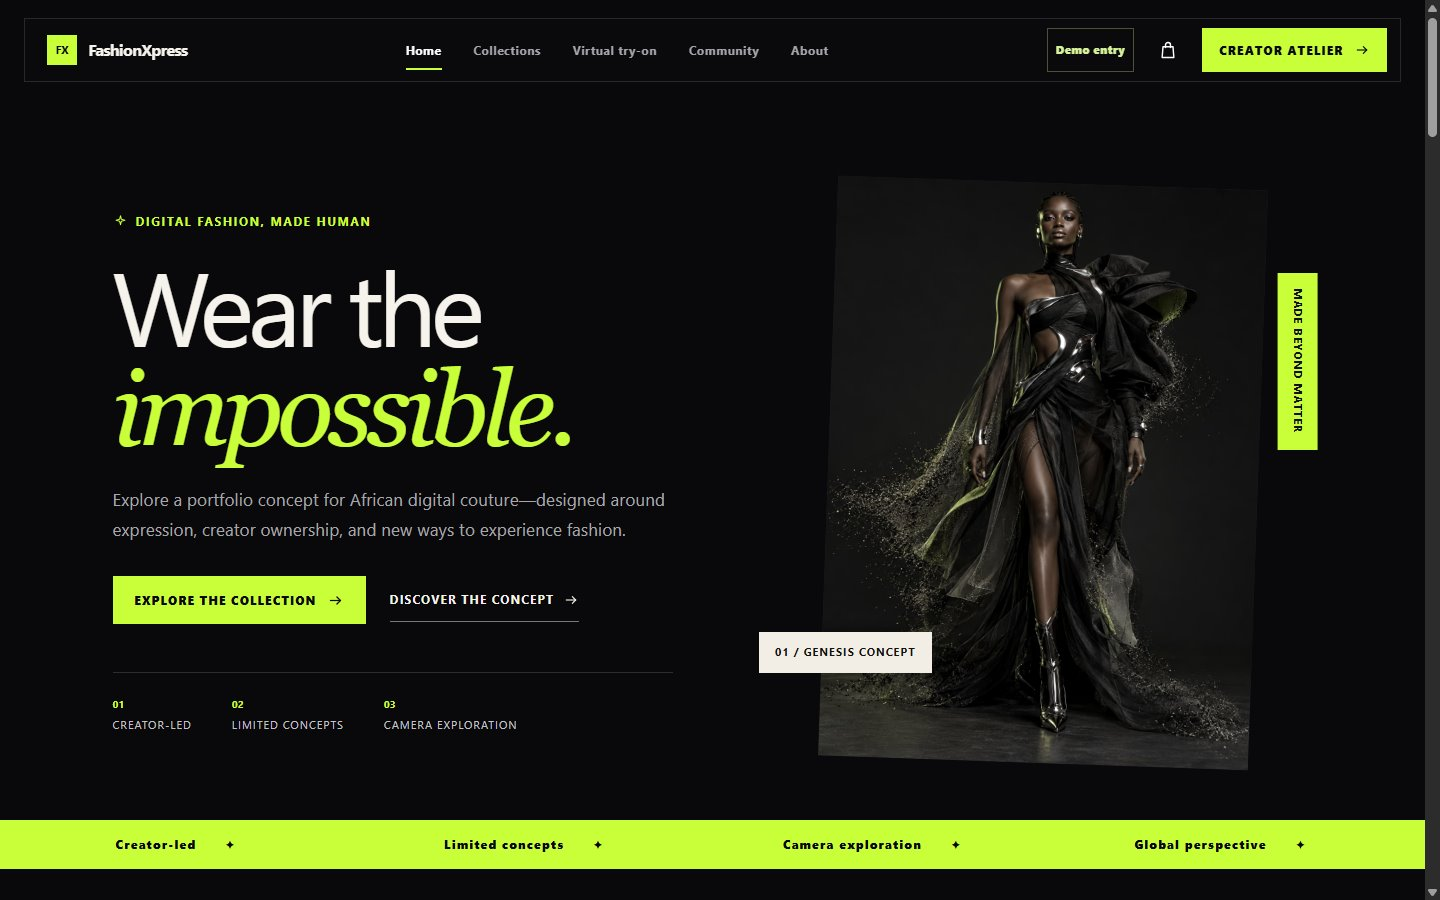
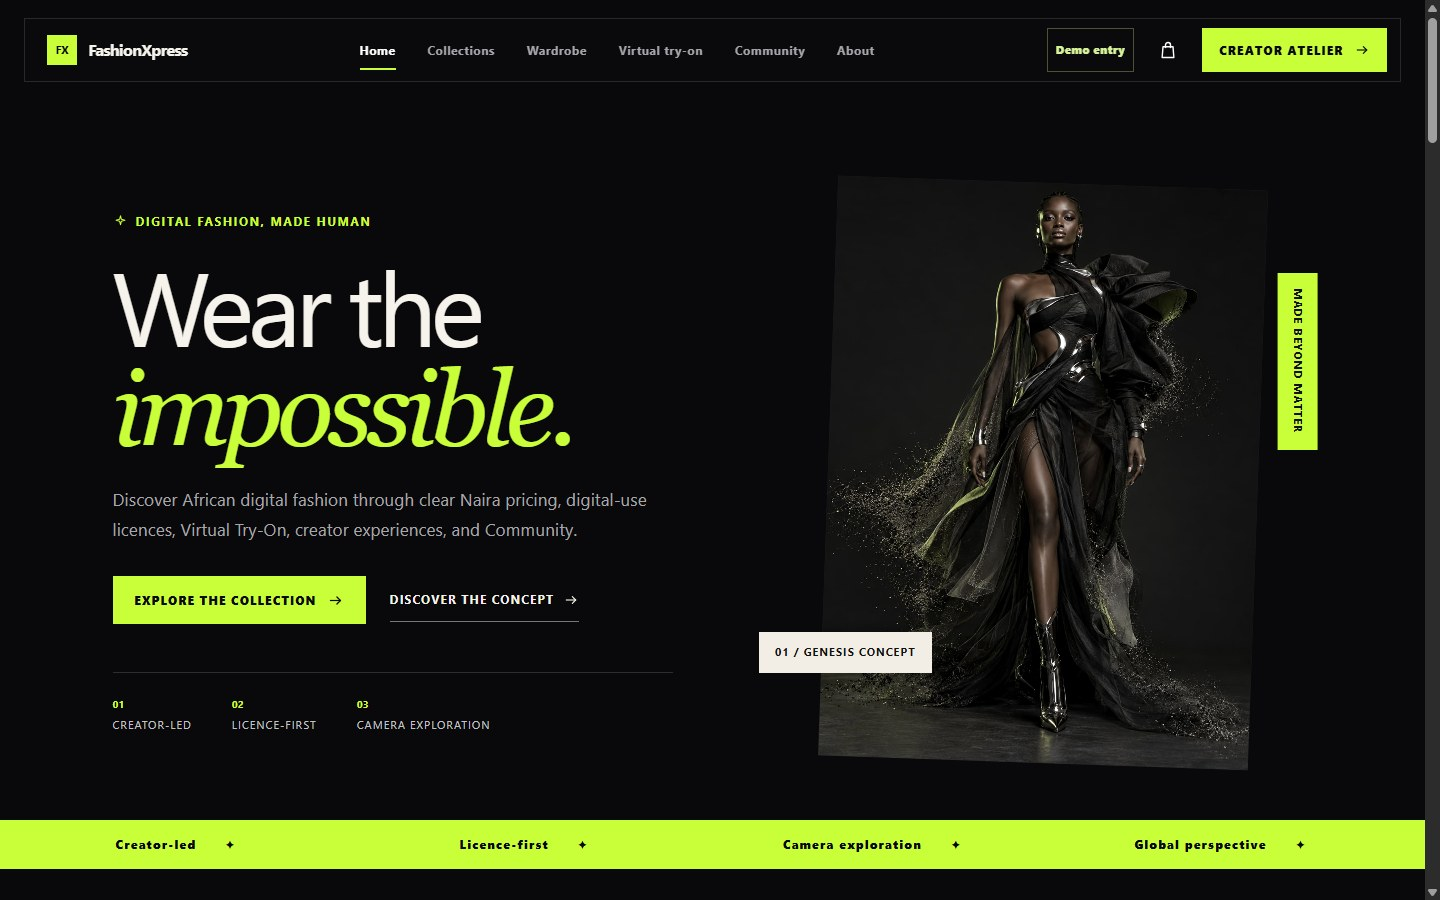
feat: transform FashionXpress into licence-first digital commerce

diff --git a/index.html b/index.html
@@ -6,21 +6,21 @@
     <meta name="theme-color" content="#08080d" />
     <link rel="icon" href="/favicon.svg" type="image/svg+xml" />
     <link rel="canonical" href="https://fashion-xpress.vercel.app/" />
-    <meta name="description" content="Explore African digital fashion through accessible local checkout, minting, Community and Virtual Try-On prototypes." />
+    <meta name="description" content="Explore an African digital-fashion commerce portfolio with Naira pricing, digital-use licences, Virtual Try-On, Community and a local Digital Wardrobe." />
     <meta property="og:type" content="website" />
     <meta property="og:site_name" content="FashionXpress" />
     <meta property="og:title" content="FashionXpress — Digital Fashion, Made Tangible" />
-    <meta property="og:description" content="An editorial React portfolio experience for African digital fashion, presented honestly in Demo Mode." />
+    <meta property="og:description" content="An African digital-fashion commerce portfolio with Naira pricing, digital-use licences, Virtual Try-On, Community and an optional Collectibles Lab." />
     <meta property="og:url" content="https://fashion-xpress.vercel.app/" />
     <meta property="og:image" content="https://fashion-xpress.vercel.app/images/social-preview.jpg" />
     <meta property="og:image:width" content="1600" />
     <meta property="og:image:height" content="900" />
-    <meta property="og:image:alt" content="FashionXpress interface shown across desktop and mobile screens on a charcoal portfolio cover." />
+    <meta property="og:image:alt" content="FashionXpress African digital-fashion commerce interface with Naira pricing, licences and Digital Wardrobe screens." />
     <meta name="twitter:card" content="summary_large_image" />
     <meta name="twitter:title" content="FashionXpress — Digital Fashion, Made Tangible" />
-    <meta name="twitter:description" content="An editorial React portfolio experience for African digital fashion, presented honestly in Demo Mode." />
+    <meta name="twitter:description" content="An African digital-fashion commerce portfolio with Naira pricing, digital-use licences, Virtual Try-On and Community." />
     <meta name="twitter:image" content="https://fashion-xpress.vercel.app/images/social-preview.jpg" />
-    <meta name="twitter:image:alt" content="FashionXpress interface shown across desktop and mobile screens on a charcoal portfolio cover." />
+    <meta name="twitter:image:alt" content="FashionXpress African digital-fashion commerce interface with Naira pricing, licences and Digital Wardrobe screens." />
     <title>FashionXpress — Digital Fashion, Made Tangible</title>
   </head>
   <body>

diff --git a/src/data/routeMeta.js b/src/data/routeMeta.js
@@ -21,7 +21,7 @@ const ROUTE_META = {
   '/profile/edit': { title: 'Edit Profile | FashionXpress', description: 'Edit your public FashionXpress Community profile and account settings.' },
   '/community-guidelines': { title: 'Community Guidelines | FashionXpress', description: 'Read FashionXpress Community conduct, reporting, and moderation limitations.' },
   '/about': { title: 'About FashionXpress', description: 'Discover how FashionXpress connects African creativity, digital craft, and global culture.' },
-  '/contact': { title: 'Contact | FashionXpress', description: 'Find direct contact details for FashionXpress partnerships, collecting, press, and creator support.' },
+  '/contact': { title: 'Contact | FashionXpress', description: 'Explore the FashionXpress contact demonstration for collection questions, partnerships, press, and creator support.' },
   '/get-started': { title: 'Creator Atelier | FashionXpress', description: 'Learn how independent digital fashion creators can work with FashionXpress.' },
   '/privacy': { title: 'Privacy | FashionXpress', description: 'Understand what the FashionXpress portfolio prototype stores locally and what information it never transmits.' },
   '/terms': { title: 'Prototype Terms | FashionXpress', description: 'Read the demonstration terms for exploring the non-commercial FashionXpress portfolio prototype.' },

diff --git a/src/pages/Home.jsx b/src/pages/Home.jsx
@@ -6,7 +6,7 @@ import { ProductCard } from '../components/ProductCard'
 import { SafeImage } from '../components/SafeImage'
 import { products } from '../data/products'
 
-const features = ['Creator-led', 'Limited concepts', 'Camera exploration', 'Global perspective']
+const features = ['Creator-led', 'Licence-first', 'Camera exploration', 'Global perspective']
 
 export function Home({ onAdd }) {
   return <>

diff --git a/README.md b/README.md
@@ -16,7 +16,7 @@
 
 ## Project overview
 
-FashionXpress is an African digital-fashion e-commerce concept combining editorial discovery, clear Naira pricing, digital-use licences, Virtual Try-On, creator experiences, Community, and an optional Collectibles Lab. It began as static legacy pages and now runs as a modular React application with shared data, accessible interactions, and explicit boundaries between demonstration behavior and real services.
+FashionXpress is a polished African digital-fashion e-commerce portfolio prototype combining editorial discovery, clear Naira pricing, digital-use licences, Virtual Try-On, creator experiences, Community, and an optional Collectibles Lab. It began as static legacy pages and now runs as a modular React application with shared data, accessible interactions, and explicit boundaries between demonstration behavior and real services.
 
 The experience is designed to feel ambitious without pretending that a payment, blockchain transaction, body-tracking system or live publication occurred.
 
@@ -68,6 +68,10 @@ Demo completion is not presented as a real transaction. The interface explicitly
 | Demo checkout | Local Virtual Try-On |
 | --- | --- |
 | ![Final review step of the non-transactional checkout demonstration](docs/assets/checkout.jpg) | ![On-device Virtual Try-On editor with a manually positioned garment layer](docs/assets/virtual-try-on.jpg) |
+
+| Digital Wardrobe | Optional Collectibles Lab |
+| --- | --- |
+| ![Session-only Digital Wardrobe with a Naira demo checkout record](docs/assets/digital-wardrobe.jpg) | ![Collectibles Lab separated from the primary commerce journey](docs/assets/collectibles-lab.jpg) |
 
 More screens and the full product narrative are available in the [case study](docs/CASE-STUDY.md).
 

diff --git a/docs/CASE-STUDY.md b/docs/CASE-STUDY.md
@@ -6,7 +6,7 @@
 
 | | |
 | --- | --- |
-| Product | Responsive digital-fashion portfolio prototype |
+| Product | Polished African digital-fashion e-commerce portfolio prototype |
 | Focus | UI/UX design, frontend architecture, accessibility and prototype integrity |
 | Public state | Demo Mode |
 | Platform | Responsive web application |
@@ -111,13 +111,13 @@ Collectibles Lab derives metadata from trusted product data, uses a clearly fict
 
 The progress sequence is labelled as a visual simulation. Stable `demo:` identifiers are stored only for the browser session.
 
-![Earlier collectible metadata screen; refresh required to show the Collectibles Lab label](assets/mint-studio.jpg)
+![Collectibles Lab landing page with explicit local-simulation disclosures](assets/collectibles-lab.jpg)
 
 ### Digital Wardrobe and local collectible records
 
 Digital Wardrobe contains only checkout-derived Naira records. Optional demo collectibles live and can be reset independently inside Collectibles Lab. Both stores reject corrupt records, but their totals, references and meanings never mix.
 
-![Earlier combined vault screen; refresh required to show the separated Digital Wardrobe](assets/demo-vault.jpg)
+![Digital Wardrobe containing a session-only Naira demo checkout record](assets/digital-wardrobe.jpg)
 
 ### Local Virtual Try-On
 

diff --git a/docs/LAUNCH-CHECKLIST.md b/docs/LAUNCH-CHECKLIST.md
@@ -6,7 +6,7 @@ This checklist packages the public project as a truthful Demo Mode portfolio pie
 
 **Repository description**
 
-> African digital-fashion e-commerce prototype with Naira pricing, licence-based access, Virtual Try-On, Community and an optional Collectibles Lab.
+> Polished African digital-fashion e-commerce portfolio prototype with Naira pricing, digital-use licences, Virtual Try-On, Community and an optional Collectibles Lab.
 
 **Website URL**
 
@@ -74,6 +74,7 @@ GitHub does not automatically use the application's Open Graph image as the repo
 - [ ] Inspect the deployed page source for Open Graph and Twitter/X card defaults.
 - [ ] Confirm the canonical URL follows the deployed origin and current route.
 - [ ] Confirm `/images/social-preview.jpg` loads from the deployed site.
+- [ ] Confirm the social preview presents Naira commerce, digital-use licences, Virtual Try-On and Digital Wardrobe without implying live transactions.
 - [ ] Test the Live Demo link through a social-card debugger after deployment.
 - [ ] Run a final spelling review across README, case study, portfolio copy and in-app launch metadata.
 - [ ] Confirm all public claims describe verified interface behavior rather than customers, revenue, research or production adoption.

diff --git a/docs/PORTFOLIO-COPY.md b/docs/PORTFOLIO-COPY.md
@@ -4,7 +4,7 @@ Use this copy as a source, then adapt length and tone to the publishing platform
 
 ## One-sentence project description
 
-FashionXpress is an African digital-fashion e-commerce prototype with Naira pricing, licence-based access, Virtual Try-On, creator experiences, Community and an optional Collectibles Lab.
+FashionXpress is a polished African digital-fashion e-commerce portfolio prototype with Naira pricing, digital-use licences, Virtual Try-On, creator experiences, Community and an optional Collectibles Lab.
 
 ## 50-word summary
 
